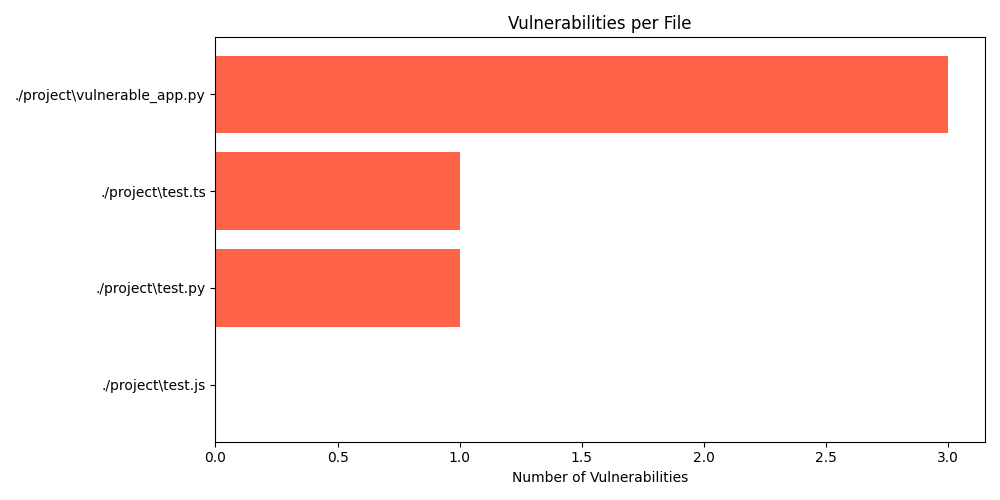
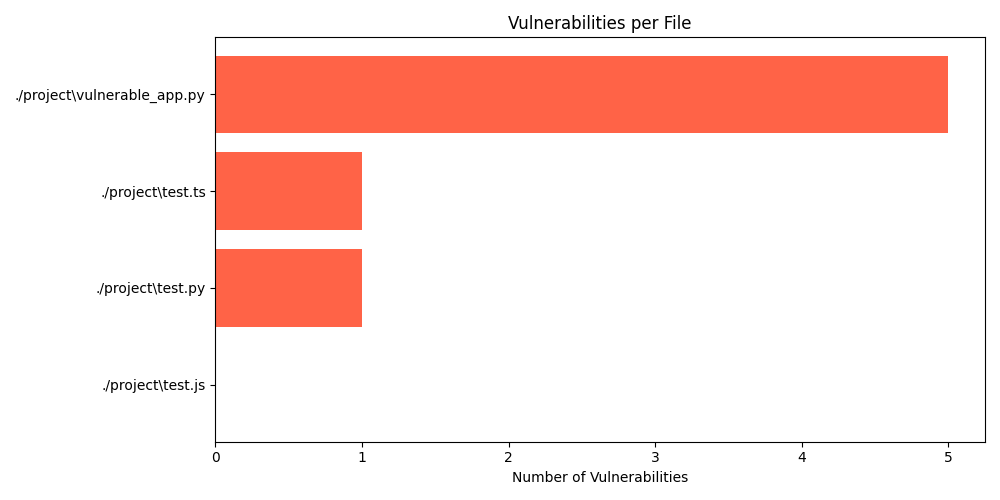
Call Generate a report with cli

diff --git a/__main__.py b/__main__.py
@@ -1,4 +1,6 @@
 
+import sys
+
 from chuncks_splitter import get_all_code_tasks
 from models import CodeChunk, OWASPFunctionReport
 from agent import agent_analyzer
@@ -35,6 +37,9 @@ if __name__ == "__main__":
 # 1. Configuration
     project_path = "./project" 
     report_file = f"vulnerability_report_.txt"
+    # --- User flag: change to True to generate report ---
+    # --- Read CLI flag ---
+    generate_report = "--report" in sys.argv
 
     # 2. Extract tasks using our Tree-sitter logic
     tasks = get_all_code_tasks(project_path)
@@ -101,14 +106,12 @@ if __name__ == "__main__":
 
         summary[file_path] = summary.get(file_path, 0) + count
 
-    # Print summary table
-    # print_summary(summary)
     print(summary)
-    # print(all_results)
-    # --- Generate a structured report from the summary ---
 
 
-# --- Generate professional DOCX report --
-    create_advanced_vuln_report(summary, all_results, "Professional_Vulnerability_Report.docx")
+    if generate_report:
+        print(f"\nGenerating professional report: Professional_Vulnerability_Report.docx")
+        create_advanced_vuln_report(summary, all_results, "Professional_Vulnerability_Report.docx")
+        print("Report generation completed.")
 
 
